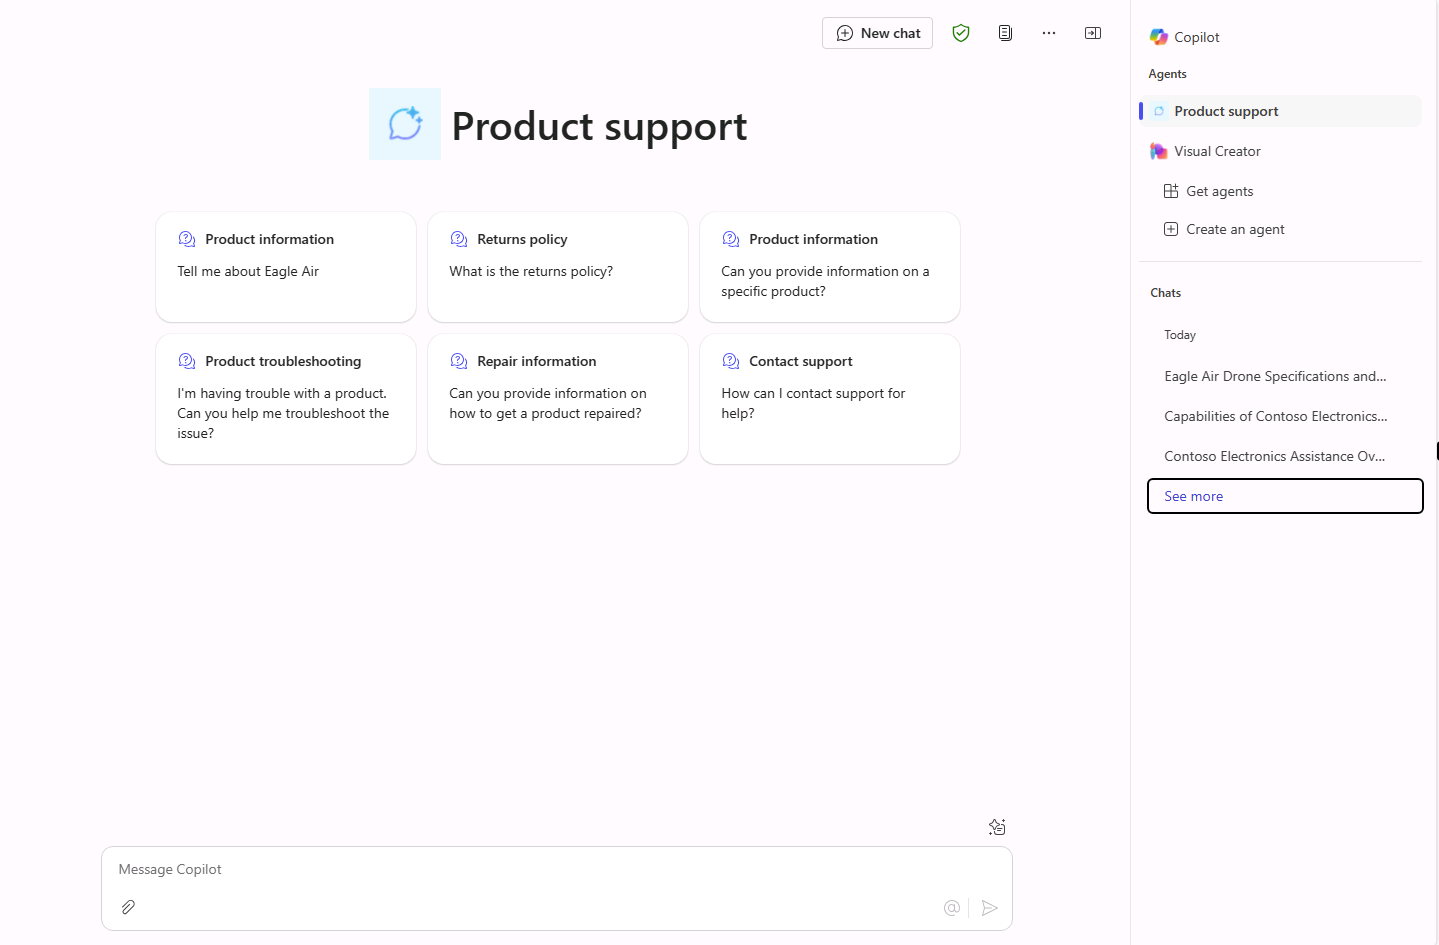
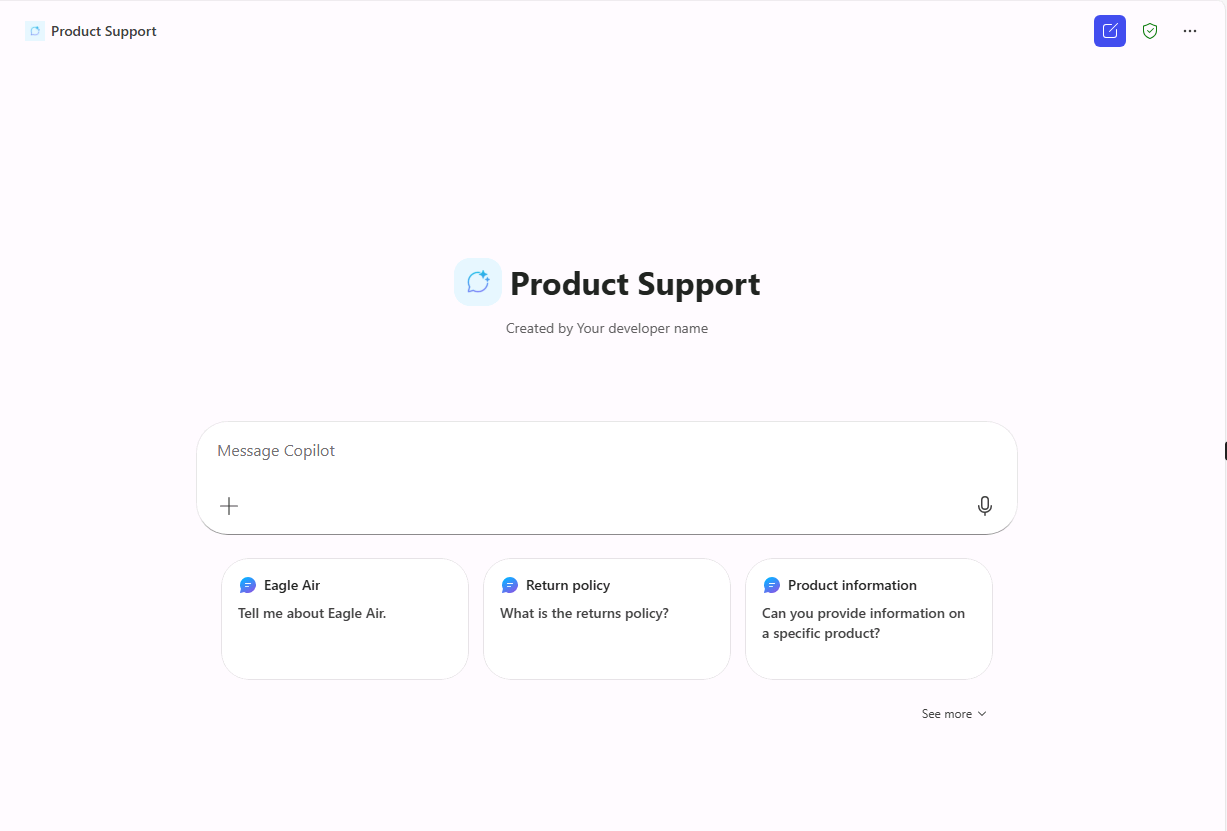
UI updates exercise 1.3

diff --git a/Instructions/Labs/01-Build-your-first-declarative-agent/03-add-starter-prompts.md b/Instructions/Labs/01-Build-your-first-declarative-agent/03-add-starter-prompts.md
@@ -5,7 +5,7 @@ lab:
 
 # Add suggested prompts
 
-In this exercise, you will update the declarative agent you created in the previous exercise with six suggested prompts.
+In this exercise, you will update the declarative agent you created in the previous exercise with six appropriate suggested prompts.
 
 This exercise should take approximately **10** minutes to complete.
 
@@ -14,25 +14,26 @@ This exercise should take approximately **10** minutes to complete.
 In Copilot Studio:
 
 1. Navigate to your **Product Support** agent's **Overview** page.
-1. In the **Suggested Prompts** section, select **Add suggested prompts**.
-1. Add the following prompts:
+1. Note that the conversational agent creation wizard generated suggested prompts for your agent during creation. Let's replace these with more appropriate prompts based on the agent's capabilities.
+1. In the **Suggested Prompts** section, select the **Edit** icon.
+1. Replace the existing prompts with the following:
 
       | Title                  | Prompt                                              |
       |------------------------|--------------------------------------------------|
-      | Product information    | Tell me about Eagle Air                          |
-      | Returns policy         | What is the returns policy?                      |
+      | Eagle Air              | Tell me about Eagle Air                          |
+      | Return policy          | What is the returns policy?                      |
       | Product information    | Can you provide information on a specific product? |
       | Product troubleshooting| I'm having trouble with a product. Can you help me troubleshoot the issue? |
       | Repair information     | Can you provide information on how to get a product repaired? |
       | Contact support        | How can I contact support for help?              |
 
-1. **Save** your changes.
+1. Select **Save** to save your changes. 
 
 ## Republish your agent
 
 Let's publish the updated agent to Microsoft 365 Copilot.
 
-1. Select **Publish** at the top-right of your agent's overview page in Copilot Studio.
+1. After your agent's changes have been saved successfully, select **Publish** at the top-right of your agent's overview page in Copilot Studio.
 1. On the modal window that opens, select **Publish**.
 1. On the **Availability options** window that opens, select **Copy** under the **Share link** heading.
 1. In a different tab of your web browser, **paste** your agent's share link and select **enter**. A window appears describing the **Product Support** agent.
@@ -41,8 +42,7 @@ Let's publish the updated agent to Microsoft 365 Copilot.
 
 ## Test your agent in Microsoft 365 Copilot
 
-1. In **Microsoft 365 Copilot**, select the icon in the top right to expand the **Copilot side panel**.
-1. Find **Product support** in the list of agents and select it to enter the immersive experience to chat directly with the agent. Notice that the suggested prompts you defined in Copilot Studio display in the user interface.
+1. In the side panel in **Microsoft 365 Copilot**, find **Product Support** in the list of agents and select it to enter the immersive experience to chat directly with the agent. Notice that the suggested prompts you defined in Copilot Studio display in the user interface.
 
     ![Screenshot of Microsoft 365 Copilot in Microsoft Edge showing the Product Support agent's starter prompts.](../Media/product-support-starter-prompts.png)
-1. **Select** a suggested prompt and review the response.
+1. **Select** a suggested prompt, **send** the message, and review the response.
